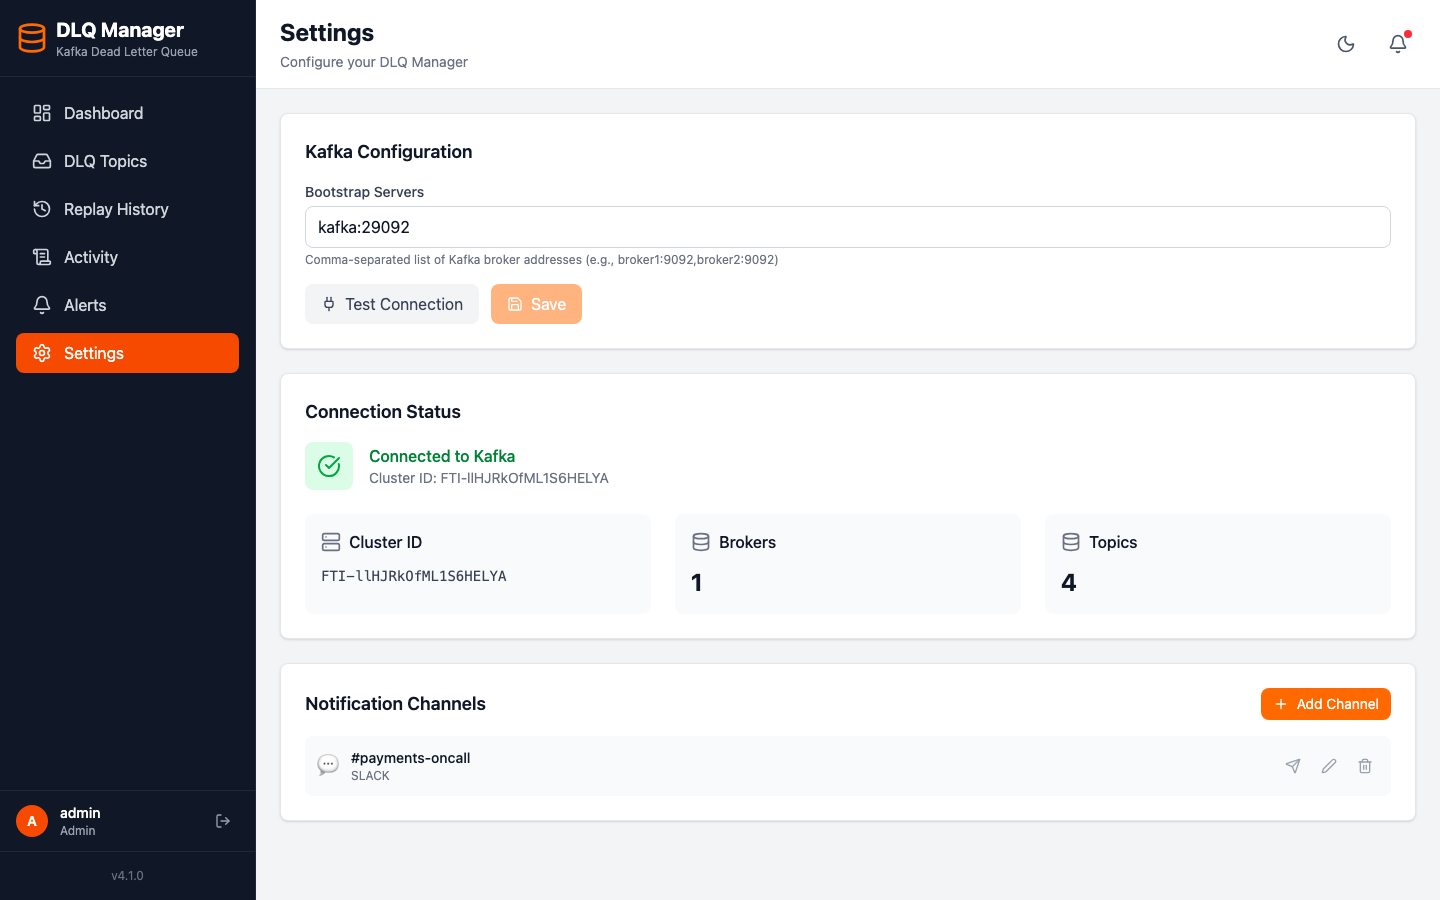
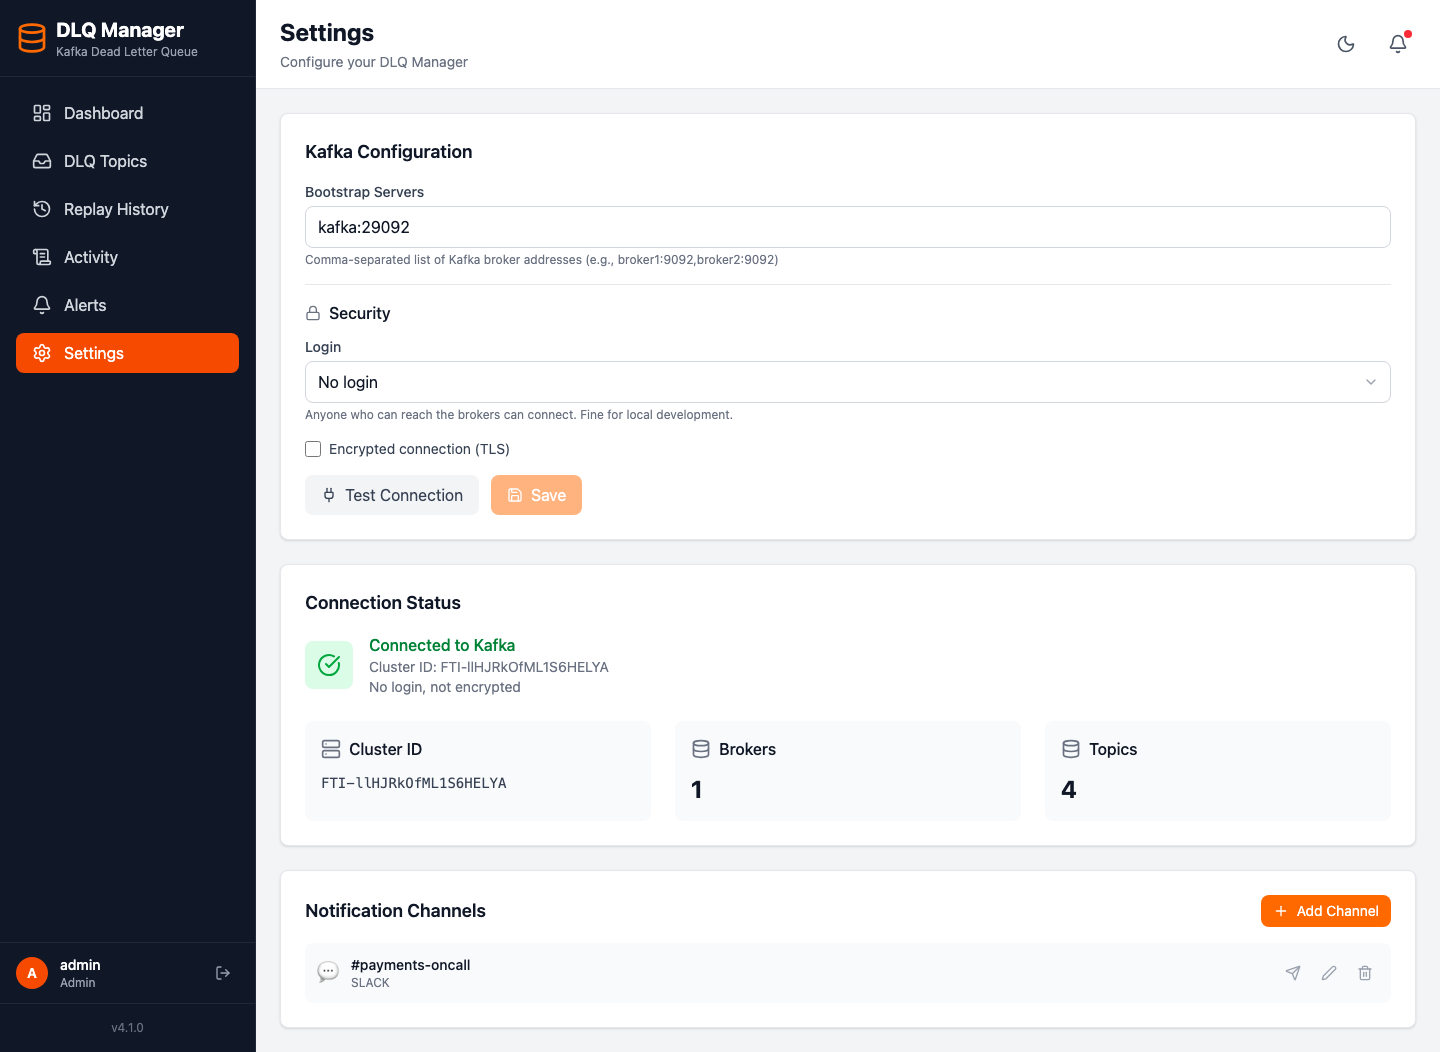
docs: how to connect to a secured Kafka, new settings screenshots

diff --git a/README.md b/README.md
@@ -31,7 +31,7 @@ This project started as a weekend experiment and has grown into a full platform 
 - **Analyze** error patterns with a per-topic error breakdown
 - **Replay** single or bulk messages back to the source topic
 - **Track** every replay operation with a full audit trail
-- **Configure** Kafka connections from the UI — no restart needed
+- **Configure** Kafka connections from the UI — no restart needed, including clusters that need a login and encryption (SASL + TLS)
 - **Alert** when a DLQ crosses a threshold, with Slack notifications
 - **Share** with a team: sign-in with viewer, operator and admin roles
 - **Audit** who did what on the Activity page: replays, alert actions, sign-ins and every configuration change
@@ -149,6 +149,28 @@ The web UI keeps you signed in with a session cookie (8 hours, `SESSION_TIMEOUT`
 curl -u viewer:viewer http://localhost:3000/api/dlq-topics     # :8080 when running from source
 ```
 
+### Connecting to a secured Kafka
+
+A company cluster usually needs an encrypted connection and a login. An admin sets both under **Settings → Security**, and the connection test has to pass before it can be saved:
+
+| Login | Typically used by |
+|-------|-------------------|
+| No login | Local development |
+| Username + password (SCRAM-SHA-512 / SCRAM-SHA-256) | AWS MSK, Aiven, Redpanda, most self-hosted clusters |
+| Username + password (PLAIN) | Confluent Cloud (API key and secret) |
+
+- **Encrypted connection (TLS)** — one checkbox. If the brokers use a certificate from a company-internal authority, paste that authority's certificate (PEM text) into the box below it; no keystore files are needed.
+- **The Kafka password** is stored encrypted (AES-256-GCM). The key comes from `DLQ_SECRET_KEY`, which the backend needs to be started with — without it the app refuses to store a password rather than keep it as plain text. The password is never sent back to the browser, never logged, and only reused for the same brokers and username it was saved for.
+- When a test fails, the message says what to fix: wrong password, untrusted certificate, or brokers that expect a login or encryption that wasn't used.
+
+```bash
+DLQ_SECRET_KEY='any long random text' docker compose up -d     # keep the same key between restarts
+```
+
+To keep the Kafka password out of the app's database entirely, give the connection to the backend as environment variables instead (used until something is saved from Settings): `KAFKA_BOOTSTRAP_SERVERS`, `KAFKA_AUTHENTICATION` (`NONE`, `PLAIN`, `SCRAM_SHA_256`, `SCRAM_SHA_512`), `KAFKA_ENCRYPTED`, `KAFKA_USERNAME`, `KAFKA_PASSWORD`, `KAFKA_CA_CERTIFICATE`.
+
+Not supported yet: client certificates (mTLS), Kerberos and OAuth logins.
+
 ---
 
 ## Running Tests
@@ -158,7 +180,7 @@ cd backend && ./mvnw test
 ```
 
 - **Unit tests** — header parsing, message conversion, alert rules, webhook safety (no infrastructure needed)
-- **Integration tests** — run against real PostgreSQL and Kafka started automatically with [Testcontainers](https://testcontainers.com) (Docker must be running): multi-partition paging, paging after retention, replay, duplicate-replay protection, sign-in and CSRF protection
+- **Integration tests** — run against real PostgreSQL and Kafka started automatically with [Testcontainers](https://testcontainers.com) (Docker must be running): multi-partition paging, paging after retention, replay, duplicate-replay protection, sign-in and CSRF protection. One test starts a second Kafka that only accepts TLS plus a login, and browses and replays through it
 
 CI runs the full backend suite plus frontend lint and build on every push.
 
@@ -215,9 +237,9 @@ CI runs the full backend suite plus frontend lint and build on every push.
 <summary><strong>Settings</strong></summary>
 
 ![Settings](assets/10-settings-kafka-config.png)
-![Settings Dark](assets/19-dark-settings.png)
-![Connection Test Success](assets/11-settings-connection-test-success.png)
-![Connection Failed](assets/13-settings-connection-test-failed.png)
+![Secured Kafka: Connection Test Success](assets/11-settings-connection-test-success.png)
+![Secured Kafka: Connection Test Failed](assets/13-settings-connection-test-failed.png)
+![Secured Kafka Saved (Dark)](assets/19-dark-settings.png)
 ![Add DLQ Topic](assets/09-add-topic-modal.png)
 
 </details>
@@ -262,9 +284,9 @@ All other endpoints need a session (the web UI) or HTTP Basic credentials (scrip
 |--------|----------|-------------|
 | `GET` | `/api/kafka/cluster-info` | Cluster information |
 | `GET` | `/api/kafka/discover-dlqs` | Auto-discover DLQ topics |
-| `GET` | `/api/kafka/config` | Get current config |
-| `PUT` | `/api/kafka/config` | Save bootstrap servers |
-| `POST` | `/api/kafka/config/test` | Test connection |
+| `GET` | `/api/kafka/config` | Get current connection settings (never the password) |
+| `PUT` | `/api/kafka/config` | Save brokers, login and encryption settings |
+| `POST` | `/api/kafka/config/test` | Test a connection without saving it |
 
 ### Alerts
 | Method | Endpoint | Description |

diff --git a/TODO.md b/TODO.md
@@ -38,6 +38,7 @@
 - [x] Safe concurrent replays: a message being replayed by one person can't be sent again by another at the same time
 - [x] Reuse Kafka connections (consumer pool, one shared admin client): a DLQ page loads ~8x faster
 - [x] Error breakdown remembered for 30 seconds and shared between viewers: ten people opening a DLQ cause one scan, not ten
+- [x] Connect to secured Kafka clusters: SASL login (PLAIN, SCRAM-SHA-256/512) and TLS with an optional company certificate; the password is stored encrypted and never sent back
 
 ---
 
@@ -45,7 +46,7 @@
 
 - [ ] Multi-cluster support with cluster switching
 - [ ] Connection profiles (dev / staging / prod)
-- [ ] SASL/SSL authentication support
+- [ ] Client certificate (mTLS), Kerberos and OAuth logins
 
 ---
 
